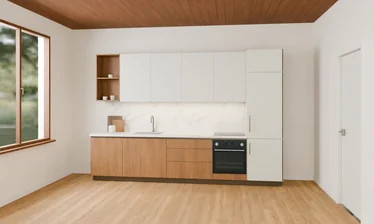
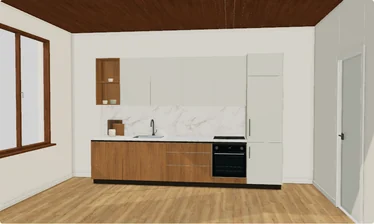
Keep room backgrounds neutral and render the manager's chosen camera frame

diff --git a/backend/v2/cabinet_assets/planner/planner.css b/backend/v2/cabinet_assets/planner/planner.css
@@ -111,16 +111,19 @@ body.mf3d-studio.mf-webgl{position:fixed;inset:0;display:flex;flex-direction:col
 /* Compact project display controls. Furniture workspace dimensions are unchanged. */
 #planner-room-settings{position:absolute;left:18px;top:64px;margin:0;z-index:25;max-width:calc(100% - 100px);color:#254137;font-size:14px}
 #planner-room-settings>summary{list-style:none;cursor:pointer;background:#ffffffed;border:1px solid #cbd5ce;border-radius:8px;padding:9px 14px;box-shadow:0 3px 16px #20382c0d}
-#planner-room-settings[open]{width:246px;background:#fff;border:1px solid #cbd5ce;border-radius:10px;box-shadow:0 10px 40px #25372c22}
+#planner-room-settings[open]{width:300px;background:#fff;border:1px solid #cbd5ce;border-radius:10px;box-shadow:0 10px 40px #25372c22}
 #planner-room-settings[open]>summary{border:0;border-bottom:1px solid #e3e8e3;border-radius:10px 10px 0 0;box-shadow:none}
-#planner-room-settings[open]{max-height:calc(100% - 74px);overflow:auto;overscroll-behavior:contain}
-.room-controls{padding:14px;display:grid;gap:12px}.room-controls label{display:grid;gap:5px;font-size:14px}.room-controls select{width:100%;font-size:14px;min-height:36px}.room-controls input[type=color]{width:100%;height:34px;padding:2px;border:1px solid #d5dbd6;border-radius:5px}
+#planner-room-settings[open]{max-height:calc(100% - 74px);overflow-y:auto;overscroll-behavior:contain}
+.room-controls{padding:14px;display:grid;grid-template-columns:minmax(0,1fr);gap:12px}
+#planner-room-settings .room-controls :is(label,select,input,button,section,div){box-sizing:border-box;min-width:0;max-width:100%}
+#planner-room-settings .room-controls button{white-space:normal;overflow-wrap:anywhere;line-height:1.35}
+#planner-room-settings .room-controls label{grid-template-columns:minmax(0,1fr)}.room-controls label{display:grid;gap:5px;font-size:14px}.room-controls select{width:100%;font-size:14px;min-height:36px}.room-controls input[type=color]{width:100%;height:34px;padding:2px;border:1px solid #d5dbd6;border-radius:5px}
 .cost-card{font-size:14px;padding:14px 0;border-top:1px solid #dae2da}.cost-card p{margin:7px 0;line-height:1.45;font-size:14px}.cost-card h3{font-size:16px;margin:0 0 10px}.cost-card details{margin-top:12px}.cost-card summary{cursor:pointer;font-size:14px}.cost-card details strong{display:block;margin-top:14px}.cost-card details p{color:#536258}
 #room-visual-notice{position:absolute;left:18px;bottom:42px;max-width:calc(100% - 36px);z-index:12;padding:7px 11px;background:#fdfcf6e8;border:1px solid #d8d7ca;border-radius:6px;font-size:13px;color:#5a5c51;pointer-events:none}
 .planner-client #planner-workspace .mf3d-top-actions #save-project{display:inline-flex!important}
 /* Client controls stay out of the presentation centre, without changing the working shell. */
 .planner-client #planner-room-settings{font-size:12px}
-.planner-client #planner-room-settings[open]{width:220px}
+.planner-client #planner-room-settings[open]{width:280px}
 .planner-client #planner-room-settings>summary{padding:8px 12px}
 .planner-client .room-controls{padding:10px 12px;gap:8px}
 .planner-client .room-controls label{font-size:12px;gap:3px}
@@ -168,7 +171,11 @@ body.mf3d-studio.mf-webgl{position:fixed;inset:0;display:flex;flex-direction:col
 
 #planner-room-settings[open]:has(#render-room-picker[data-open]){width:min(358px,calc(100% - 34px));max-width:calc(100% - 34px)}
 #render-room-picker{margin:0;border-bottom:1px solid #dce4dd;padding-bottom:10px}
-.render-room-toggle{display:flex;align-items:center;gap:8px;width:100%;cursor:pointer;font-weight:650;text-align:left;padding:4px 0;color:#234636;border:0;background:transparent}
+#planner-room-settings .render-room-toggle{display:grid;grid-template-columns:minmax(0,1fr) auto;align-items:center;gap:10px;width:100%;cursor:pointer;text-align:left;line-height:1.35}
+.render-room-toggle small{display:block;font-size:12px;font-weight:400;margin-top:3px}
+#render-room-actions{display:grid;grid-template-columns:minmax(0,1fr);gap:6px;margin-top:8px}
+#render-room-actions button{width:100%}
+#planner-room-settings #render-room-actions button+button{background:#fff;color:#244535;border:1px solid #b9cabe}
 .render-room-toggle::after{content:'⌄';margin-left:auto}.render-room-toggle[aria-expanded=true]::after{transform:rotate(180deg)}
 #render-room-options>label{margin:8px 0}
 .render-room-cards{display:grid;grid-template-columns:repeat(2,minmax(0,1fr));gap:8px}

diff --git a/backend/v2/cabinet_assets/planner/render-rooms/file-studio.css b/backend/v2/cabinet_assets/planner/render-rooms/file-studio.css
@@ -1,3 +1,3 @@
 *{box-sizing:border-box}body{margin:0;background:#f6f4ee;color:#263025;font:15px/1.4 Inter,Arial,sans-serif}.wrap{max-width:1520px;padding:20px clamp(14px,3vw,50px) 25px;margin:auto}.mast{display:flex;justify-content:space-between;border-bottom:1px solid #c8cec2;padding-bottom:11px;color:#506051;font-size:12px}.brand{font-weight:700;letter-spacing:.18em}.title{display:flex;align-items:center;justify-content:space-between;gap:12px;margin:14px 0}h1{font:400 clamp(30px,3.5vw,50px)/1.1 'PT Serif',Georgia,serif;letter-spacing:-.04em;margin:0}
-#controls{display:flex;flex-wrap:wrap;align-items:flex-end;gap:8px 14px;margin-bottom:12px}label:not(.check){display:flex;gap:3px;flex-direction:column;font-size:12px;color:#465648}select,button{font:600 13px/1.25 Inter,Arial,sans-serif;color:#253a2c;background:#fcfbf8;min-height:35px;border:1px solid #a9b5a9;border-radius:5px;padding:6px 10px;cursor:pointer}button:hover,select:hover{background:#e6ece1}button:focus-visible,select:focus-visible,input:focus-visible{outline:3px solid #94563b;outline-offset:2px}#save{background:#294b3b;color:white;border-color:#294b3b}button:disabled{opacity:.5;cursor:default}.check{font-size:13px;display:flex;align-items:center;gap:3px;min-height:35px}.check input{accent-color:#294b3b}#custom-controls{display:flex;flex-wrap:wrap;align-items:flex-end;gap:9px;margin:4px 0 12px}#custom-controls[hidden],#axis-group[hidden]{display:none}#stage{width:min(100%,1180px);aspect-ratio:1920/1150;position:relative;margin:0 auto;background:#d6d1c4;border-radius:7px;overflow:hidden}canvas{width:100%;height:100%;display:block;touch-action:none}#file{display:none}
+#controls{display:flex;flex-wrap:wrap;align-items:flex-end;gap:8px 14px;margin-bottom:12px}label:not(.check){display:flex;gap:3px;flex-direction:column;font-size:12px;color:#465648}select,button{font:600 13px/1.25 Inter,Arial,sans-serif;color:#253a2c;background:#fcfbf8;min-height:35px;border:1px solid #a9b5a9;border-radius:5px;padding:6px 10px;cursor:pointer}button:hover,select:hover{background:#e6ece1}button:focus-visible,select:focus-visible,input:focus-visible{outline:3px solid #94563b;outline-offset:2px}#save{background:#294b3b;color:white;border-color:#294b3b}button:disabled{opacity:.5;cursor:default}.check{font-size:13px;display:flex;align-items:center;gap:3px;min-height:35px}.check input{accent-color:#294b3b}#custom-controls{display:flex;flex-wrap:wrap;align-items:flex-end;gap:9px;margin:4px 0 12px}#custom-controls[hidden],#axis-group[hidden]{display:none}#stage{width:min(100%,1180px);aspect-ratio:1920/1150;position:relative;margin:0 auto;background:#d8d8d8;border-radius:7px;overflow:hidden}canvas{width:100%;height:100%;display:block;touch-action:none}#file{display:none}
 footer{width:min(100%,1180px);margin:7px auto 0;display:flex;flex-wrap:wrap;justify-content:space-between;gap:4px 12px;color:#536052;font-size:12px}#status{font-weight:600;color:#264432;margin:0}p{margin:0}@media(max-width:650px){.wrap{padding-top:12px}.mast{font-size:10px}select,button{font-size:12px;padding:5px 7px}.title{margin:13px 0}.title button{font-size:11px}#controls{gap:5px 9px}.check{min-height:29px;font-size:11px}.title h1{font-size:32px}#stage{border-radius:4px}footer{font-size:11px}}

diff --git a/backend/v2/cabinet_assets/planner/presentation.css b/backend/v2/cabinet_assets/planner/presentation.css
@@ -30,3 +30,17 @@
 #presentation-dialog label,#presentation-dialog select,#presentation-dialog input,#presentation-dialog details{margin:0}
 #presentation-dialog .presentation-body>section{margin:0}
 #presentation-dialog summary{background:transparent}
+
+#render-camera-dialog{box-sizing:border-box;width:min(1180px,calc(100vw - 24px));height:min(820px,calc(100dvh - 24px));max-width:100%;max-height:100dvh;margin:auto;padding:14px;border:0;border-radius:12px;background:#fff;color:#243a30}
+#render-camera-dialog[open]{display:grid;grid-template-rows:auto minmax(0,1fr) auto;gap:12px}
+#render-camera-dialog::backdrop{background:#18201dd1}
+#render-camera-title{margin:0;font-size:clamp(18px,2vw,24px)}
+.render-camera-stage{display:grid;place-items:center;min-width:0;min-height:0;container-type:size;background:#e4e6e4}
+.render-camera-frame{position:relative;width:min(100cqw,calc(100cqh * 16 / 9));aspect-ratio:16/9;overflow:hidden;background:#d8d8d8}
+.render-camera-frame canvas,.render-camera-input{position:absolute;inset:0;display:block;width:100%;height:100%;touch-action:none}
+#render-camera-dialog #scene{min-width:0;min-height:0}
+.render-camera-input{cursor:grab}.render-camera-input:active{cursor:grabbing}
+.render-camera-input:focus-visible{outline:2px solid #29624b;outline-offset:-2px}
+#render-camera-dialog footer{display:flex;align-items:center;justify-content:flex-end;flex-wrap:wrap;gap:8px}
+#render-camera-help{flex:1 1 260px;margin:0;font-size:13px}
+@media(max-width:600px){#render-camera-dialog{padding:10px;height:min(calc(100dvh - 24px),calc(56.25vw + 170px))}#render-camera-help{flex-basis:100%}}

diff --git a/backend/v2/cabinet_assets/3d.js b/backend/v2/cabinet_assets/3d.js
@@ -561,6 +561,8 @@ function capturePdfPreviews(){
   }
 }
 async function openKitchenAlbumFlow(){
+  const plannerScene=globalThis.MF_PLANNER?.scene;
+  const albumView=plannerScene?.renderRooms?.id&&plannerScene.mode==='3d'?plannerScene.captureView():null;
   const {openKitchenAlbum}=await import('/account/planner/kitchen-album-ui.mjs?v=20261029-album-pagination');
   const cleanSnapshot=()=>{const scene=scenePayload();delete scene.selected_item_id;delete scene.view_mode;
     return {id:project?.project_id,version:project?.version,name:$('project-name').value.trim(),user:user?.user_id,scene};};
@@ -575,7 +577,7 @@ async function openKitchenAlbumFlow(){
       if(!scene||scene.isFallback){const data=capturePdfPreviews().preview_data_url;if(!data)throw Error('Не удалось получить вид кухни.');return {hero:data,geometry};}
       const {captureAlbumViews}=await import('/account/planner/presentation-capture.mjs?v=20261029-album-pagination');
       await scene.renderRooms?.waitReady();
-      return {...captureAlbumViews(scene,{detail:false}),geometry};
+      return {...captureAlbumViews(scene,{detail:false,savedView:albumView}),geometry};
     },
     request:(path,method='GET',body)=>api(path,method,body,{},{timeoutMs:325000})
   });

diff --git a/tests/test_presentation_views.py b/tests/test_presentation_views.py
@@ -7,7 +7,9 @@ def view(**patch):
 
 def test_presentation_views_round_trip_and_legacy_default():
     assert Scene().presentationViews==[]
-    saved=Scene(presentationViews=[view()]).model_dump(mode='json')
+    assert Scene(presentationViews=[view()]).presentationViews[0].aspect is None
+    saved=Scene(presentationViews=[view(aspect=16/9)]).model_dump(mode='json')
+    assert saved['presentationViews'][0]['aspect']==16/9
     assert Scene(**saved).model_dump(mode='json')==saved
     assert saved['presentationViews'][0]['name']=='Вид от входа'
 
@@ -15,7 +17,7 @@ def test_presentation_views_round_trip_and_legacy_default():
     dict(position=[float('nan'),1,3]),dict(position=[float('inf'),1,3]),
     dict(position=[0,1,0]),dict(up=[0,0,0]),dict(up=[0,2,0]),
     dict(position=[1,2]),dict(target=[1001,0,0]),dict(zoom=0),dict(fov=180),
-    dict(orthoSpan=-1),dict(viewOffset=[3,0]),dict(mode='arbitrary'),dict(name=''),dict(name='x'*61),
+    dict(aspect=0),dict(aspect=float('inf')),dict(orthoSpan=-1),dict(viewOffset=[3,0]),dict(mode='arbitrary'),dict(name=''),dict(name='x'*61),
 ])
 def test_invalid_camera_cannot_enter_saved_scene(patch):
     data=view();data.update(patch)
@@ -30,6 +32,6 @@ def test_presentation_assets_served_under_existing_csp():
     from fastapi.testclient import TestClient
     from backend.v2.cabinet_ui import router,CSP
     app=FastAPI();app.include_router(router());client=TestClient(app)
-    for name in ['presentation.mjs','presentation-capture.mjs','presentation-ui.mjs','presentation.css']:
+    for name in ['presentation.mjs','presentation-capture.mjs','presentation-ui.mjs','render-framing.mjs','presentation.css']:
         assert client.get('/account/planner/'+name).status_code==200
     assert client.get('/constructor.html').headers['Content-Security-Policy']==CSP

diff --git a/backend/v2/cabinet_ui.py b/backend/v2/cabinet_ui.py
@@ -53,7 +53,7 @@ def router():
         'interaction.mjs','material-visuals.mjs','room-state.mjs','room-daylight.mjs','room-interiors.mjs','room-pricing-ui.mjs','room-plan.mjs','room-setup.mjs','room-mesh.mjs','room-setup.css','pricing.mjs','workspace.mjs','workspace.css','planner.css','vendor/three.module.js','vendor/three.core.min.js',
         'vendor/OrbitControls.js','vendor/THREE-LICENSE.txt','vendor/manifest.json',
     }
-    planner_files.update({'render-rooms.mjs','render-room-picker.mjs','vendor/room-loaders.mjs',
+    planner_files.update({'render-rooms.mjs','render-room-picker.mjs','render-framing.mjs','vendor/room-loaders.mjs',
         'render-rooms/catalogue.mjs','render-rooms/city.exr','render-rooms/forest.exr','render-rooms/skies.txt',
         'render-rooms/kitchen.glb','render-rooms/wardrobe.glb','render-rooms/file-studio.mjs','render-rooms/file-studio.css'})
     planner_files.update(f'render-rooms/{n:02d}.{ext}' for n in range(1,16) for ext in ('glb','webp'))

diff --git a/backend/v2/three_d_api.py b/backend/v2/three_d_api.py
@@ -482,6 +482,7 @@ class WallLight(StrictModel):
 
 CameraNumber=Annotated[float,Field(ge=-1000,le=1000,allow_inf_nan=False)]
 class PresentationView(StrictModel):
+    aspect: float | None=Field(default=None,gt=0,allow_inf_nan=False)
     id: str=Field(min_length=1,max_length=80)
     name: str=Field(min_length=1,max_length=60)
     mode: Literal['3d','top','front','left','right']='3d'
